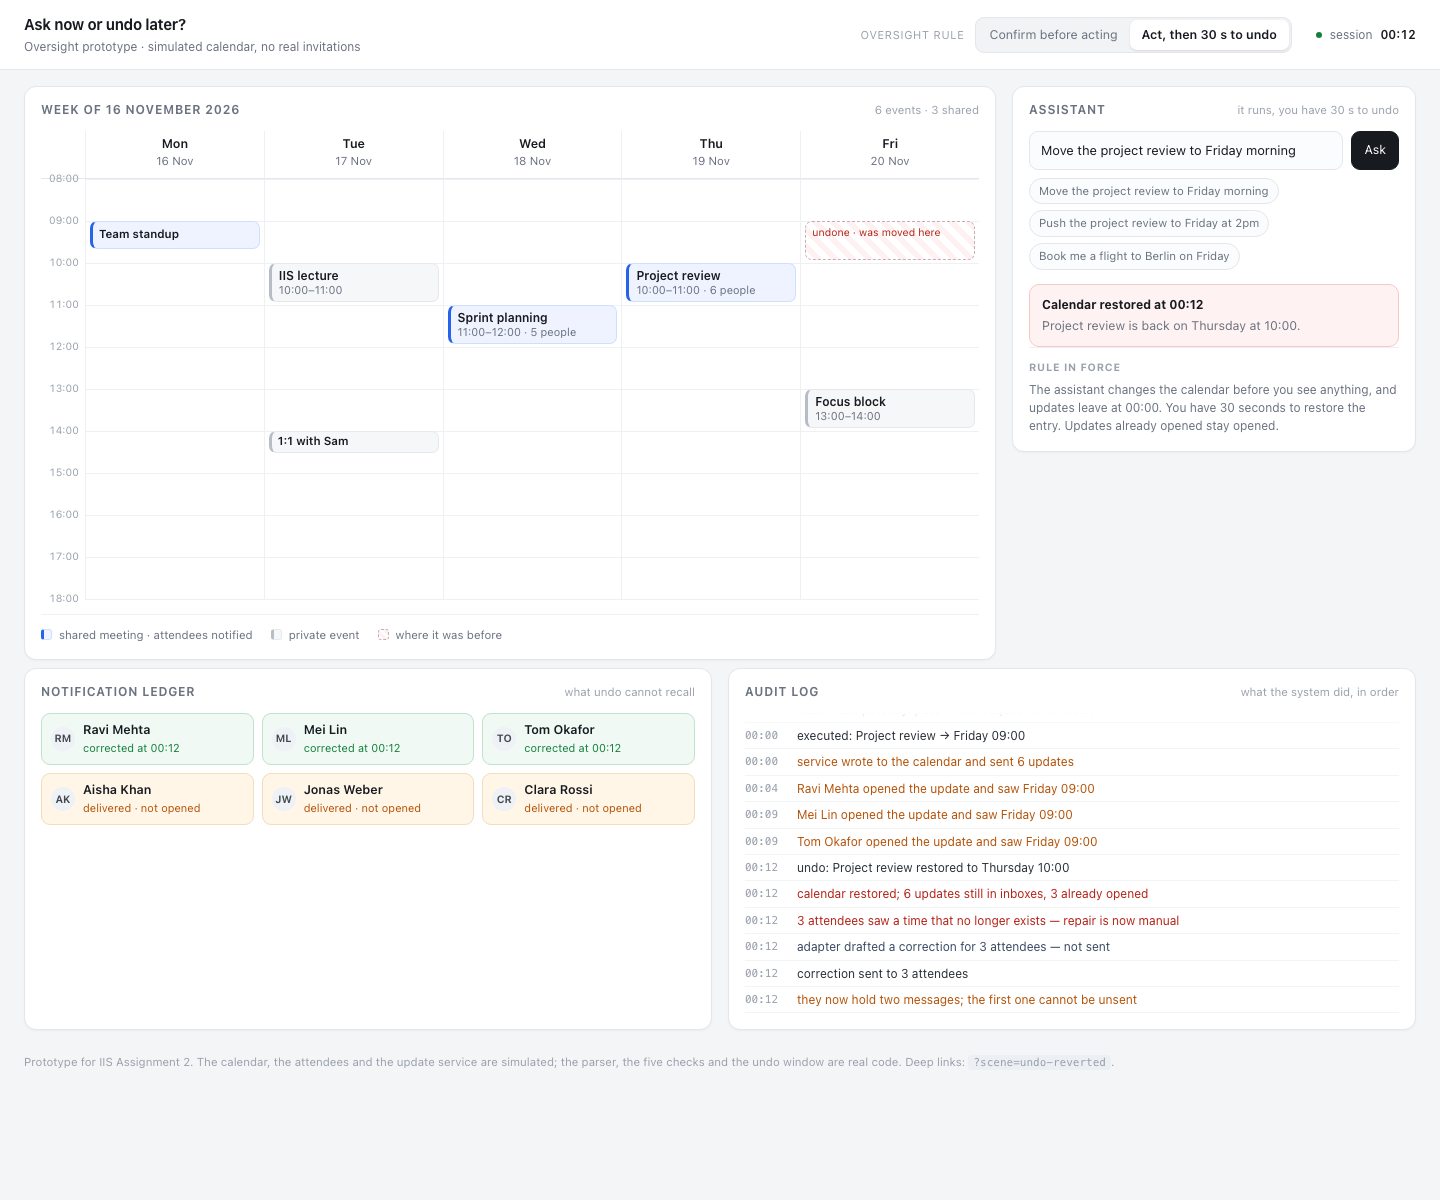
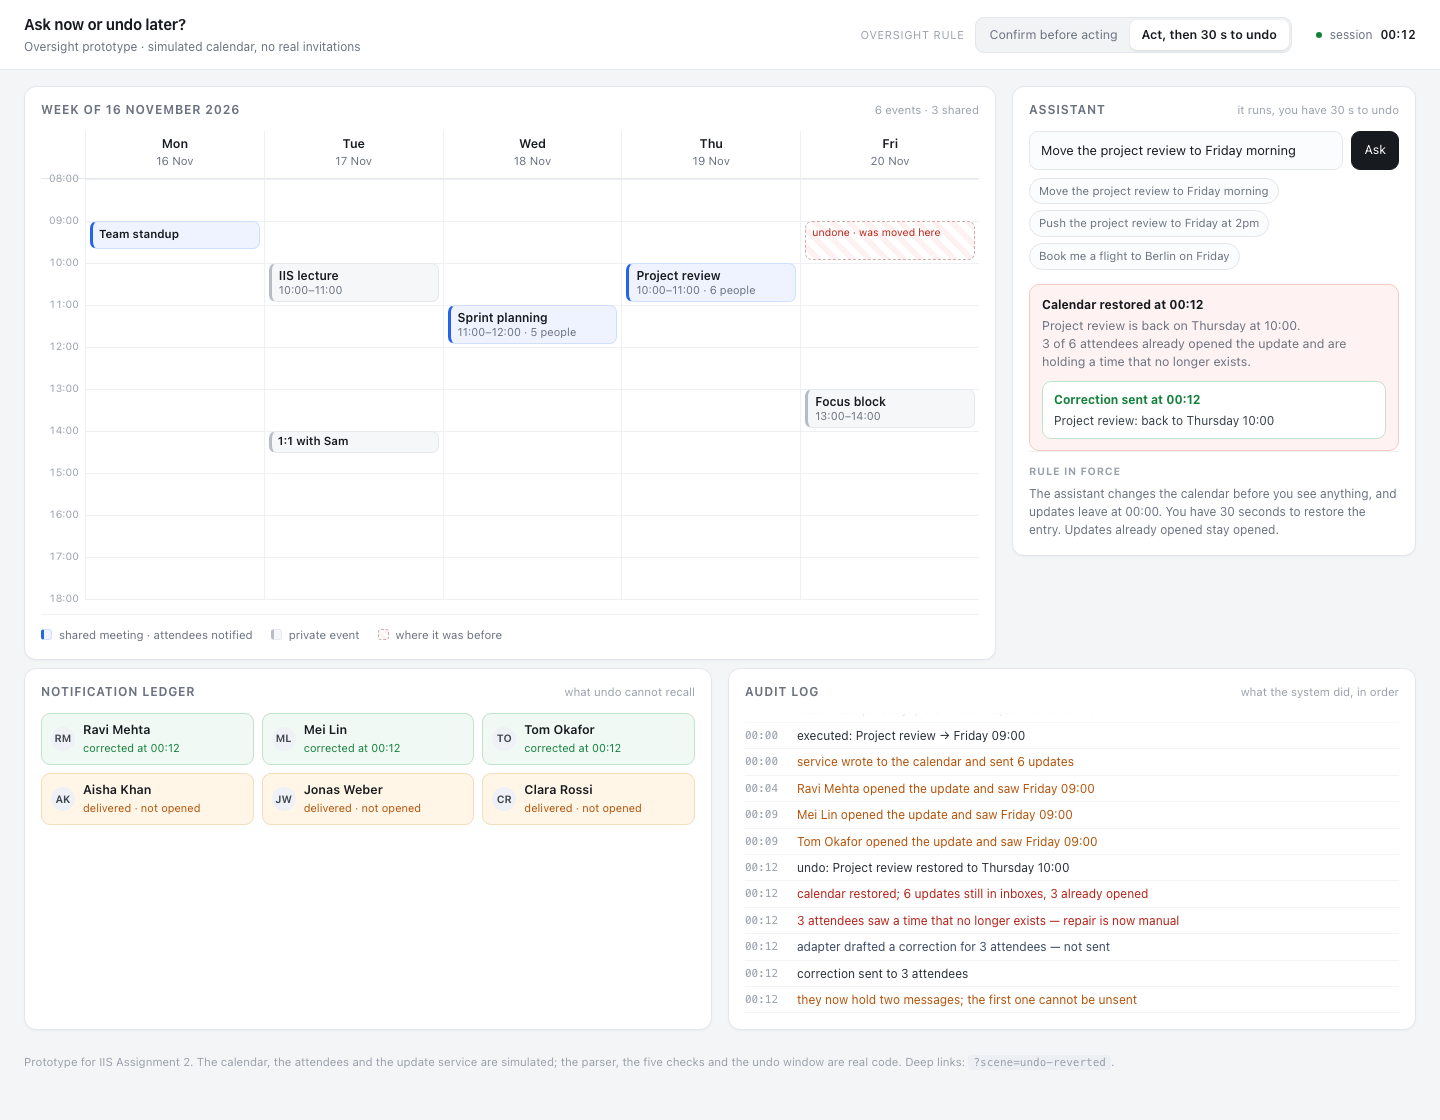
check that every scene renders the state it claims

diff --git a/js/engine.js b/js/engine.js
@@ -213,7 +213,7 @@ export function undo(state) {
   log(state, `undo: ${a.title} restored to ${DAY_NAME[a.prev.day]} ${clock(a.prev.start)}`, 'action');
 
   if (a.notified) {
-    const seen = a.notifications.filter((n) => n.status === 'opened').length;
+    const seen = a.notifications.filter((n) => n.openedAt).length;
     const delivered = a.notifications.filter((n) => n.status !== 'none').length;
     log(state, `calendar restored; ${delivered} updates still in inboxes, ${seen} already opened`, seen > 0 ? 'danger' : 'warn');
     if (seen > 0) log(state, `${seen} attendees saw a time that no longer exists — repair is now manual`, 'danger');
@@ -244,7 +244,7 @@ export function draftCorrection(state) {
   if (!a || !a.revertedAt) return;
   if (a.correction) return;
 
-  const seen = a.notifications.filter((n) => n.status === 'opened').length;
+  const seen = a.notifications.filter((n) => n.openedAt).length;
   if (!seen) return;
 
   a.correction = { ...composeCorrection(a, seen), draftedAt: state.t, sentAt: null };
@@ -256,7 +256,7 @@ export function sendCorrection(state) {
   const a = state.action;
   if (!a || !a.correction || a.correction.sentAt) return;
 
-  const recipients = a.notifications.filter((n) => n.status === 'opened');
+  const recipients = a.notifications.filter((n) => n.openedAt);
   for (const note of recipients) {
     note.status = 'corrected';
     note.correctedAt = state.t;

diff --git a/js/ui.js b/js/ui.js
@@ -341,7 +341,7 @@ function doneCard(state) {
 
 function revertedCard(state) {
   const a = state.action;
-  const seen = a ? a.notifications.filter((n) => n.status === 'opened').length : 0;
+  const seen = a ? a.notifications.filter((n) => n.openedAt).length : 0;
   const corrected = a && a.correction && a.correction.sentAt;
 
   let repair = '';

diff --git a/README.md b/README.md
@@ -71,6 +71,10 @@ each change is in [`docs/decisions.md`](docs/decisions.md).
   repair is the work that undo shifts rather than removes.
 - Review aids — a scenes index and a keyboard path (focus follows the next decision, Escape backs
   out), so the interaction can be inspected without a mouse and without waiting for timers.
+- Scene checks — the first run failed on `undo-corrected`: after the correction was sent the panel
+  lost the receipt, because the count of people who had read the update was taken from the current
+  status rather than from whether they had opened it. Counting by `openedAt` fixed it, and the same
+  check now guards every state.
 - README — how to run it.
 
 Three real fixes on the way, each found by a check or a screenshot rather than by reading the code:
